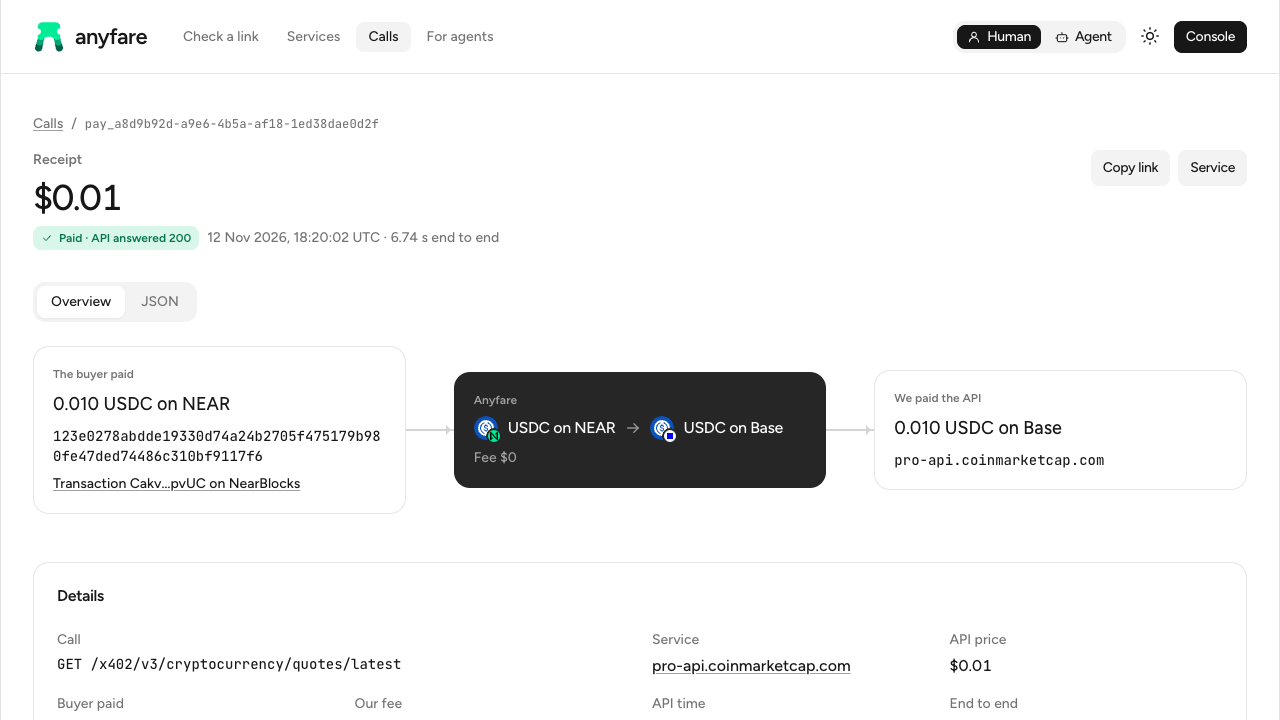
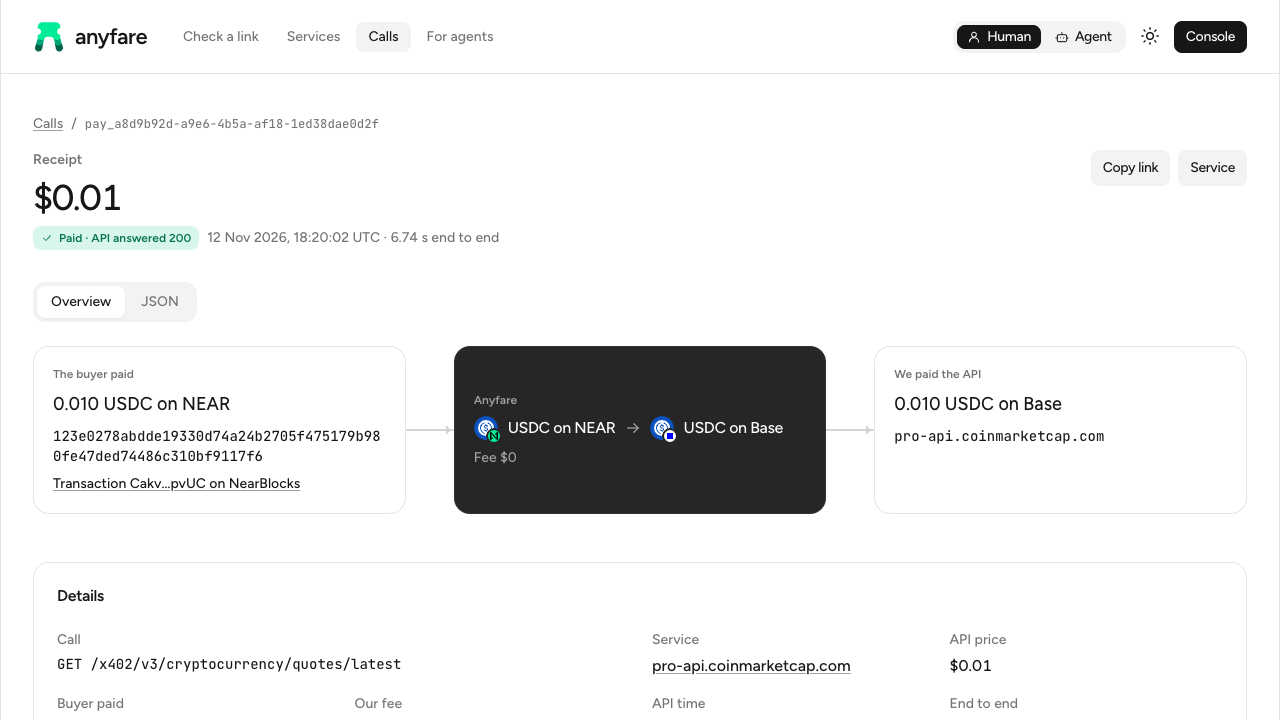
Line up the receipt's three boxes
- The buyer's box, ours and the API's now take the tallest one's height, so their tops and bottoms line up.
- Our dark box centres its route, on the line of the arrows that come in and go out.
- In dark, our box has the inverse outline, as the design's dark panel asks. Without it, it read as a hole in the page.
- The README's receipt screenshots are retaken, light and dark.

Changed region(s): [[0.3438, 0.6722, 0.6562, 0.7333], [0.3438, 0.4583, 0.6562, 0.5194], [0.6875, 0.4889, 0.875, 0.6417]]

diff --git a/packages/web/app/receipt.css b/packages/web/app/receipt.css
@@ -6,11 +6,13 @@
 .receipt-tabs .tab-panel { margin-top: 24px; }
 .receipt .break { overflow-wrap: anywhere; }
 
-.route-map { display: grid; grid-template-columns: 1fr 48px 1fr 48px 1fr; align-items: center; gap: 0; }
+/* The three boxes take the tallest one's height, so their tops and bottoms line up. The arrows stay in the middle,
+   and so does the route in our box: it sits on the arrows' line */
+.route-map { display: grid; grid-template-columns: 1fr 48px 1fr 48px 1fr; align-items: stretch; gap: 0; }
 .route-map .node { padding: 20px; border-radius: var(--radius-2xl); background: var(--surface-card); outline: 1px solid var(--border); outline-offset: -1px; display: flex; flex-direction: column; gap: 8px; min-width: 0; }
-.route-map .node.us { background: var(--inverse-bg); color: var(--inverse-text); outline: 0; }
+.route-map .node.us { justify-content: center; background: var(--inverse-bg); color: var(--inverse-text); outline-color: var(--inverse-border); }
 .route-map .node.us .muted { color: var(--inverse-text-secondary); }
-.route-map .link-line { height: 2px; background: var(--border-strong); position: relative; }
+.route-map .link-line { align-self: center; height: 2px; background: var(--border-strong); position: relative; }
 .route-map .link-line::after { content: ""; position: absolute; right: -2px; top: -4px; border: 5px solid transparent; border-left-color: var(--border-strong); }
 @media (max-width: 860px) {
   .route-map { grid-template-columns: 1fr; gap: 8px; }
